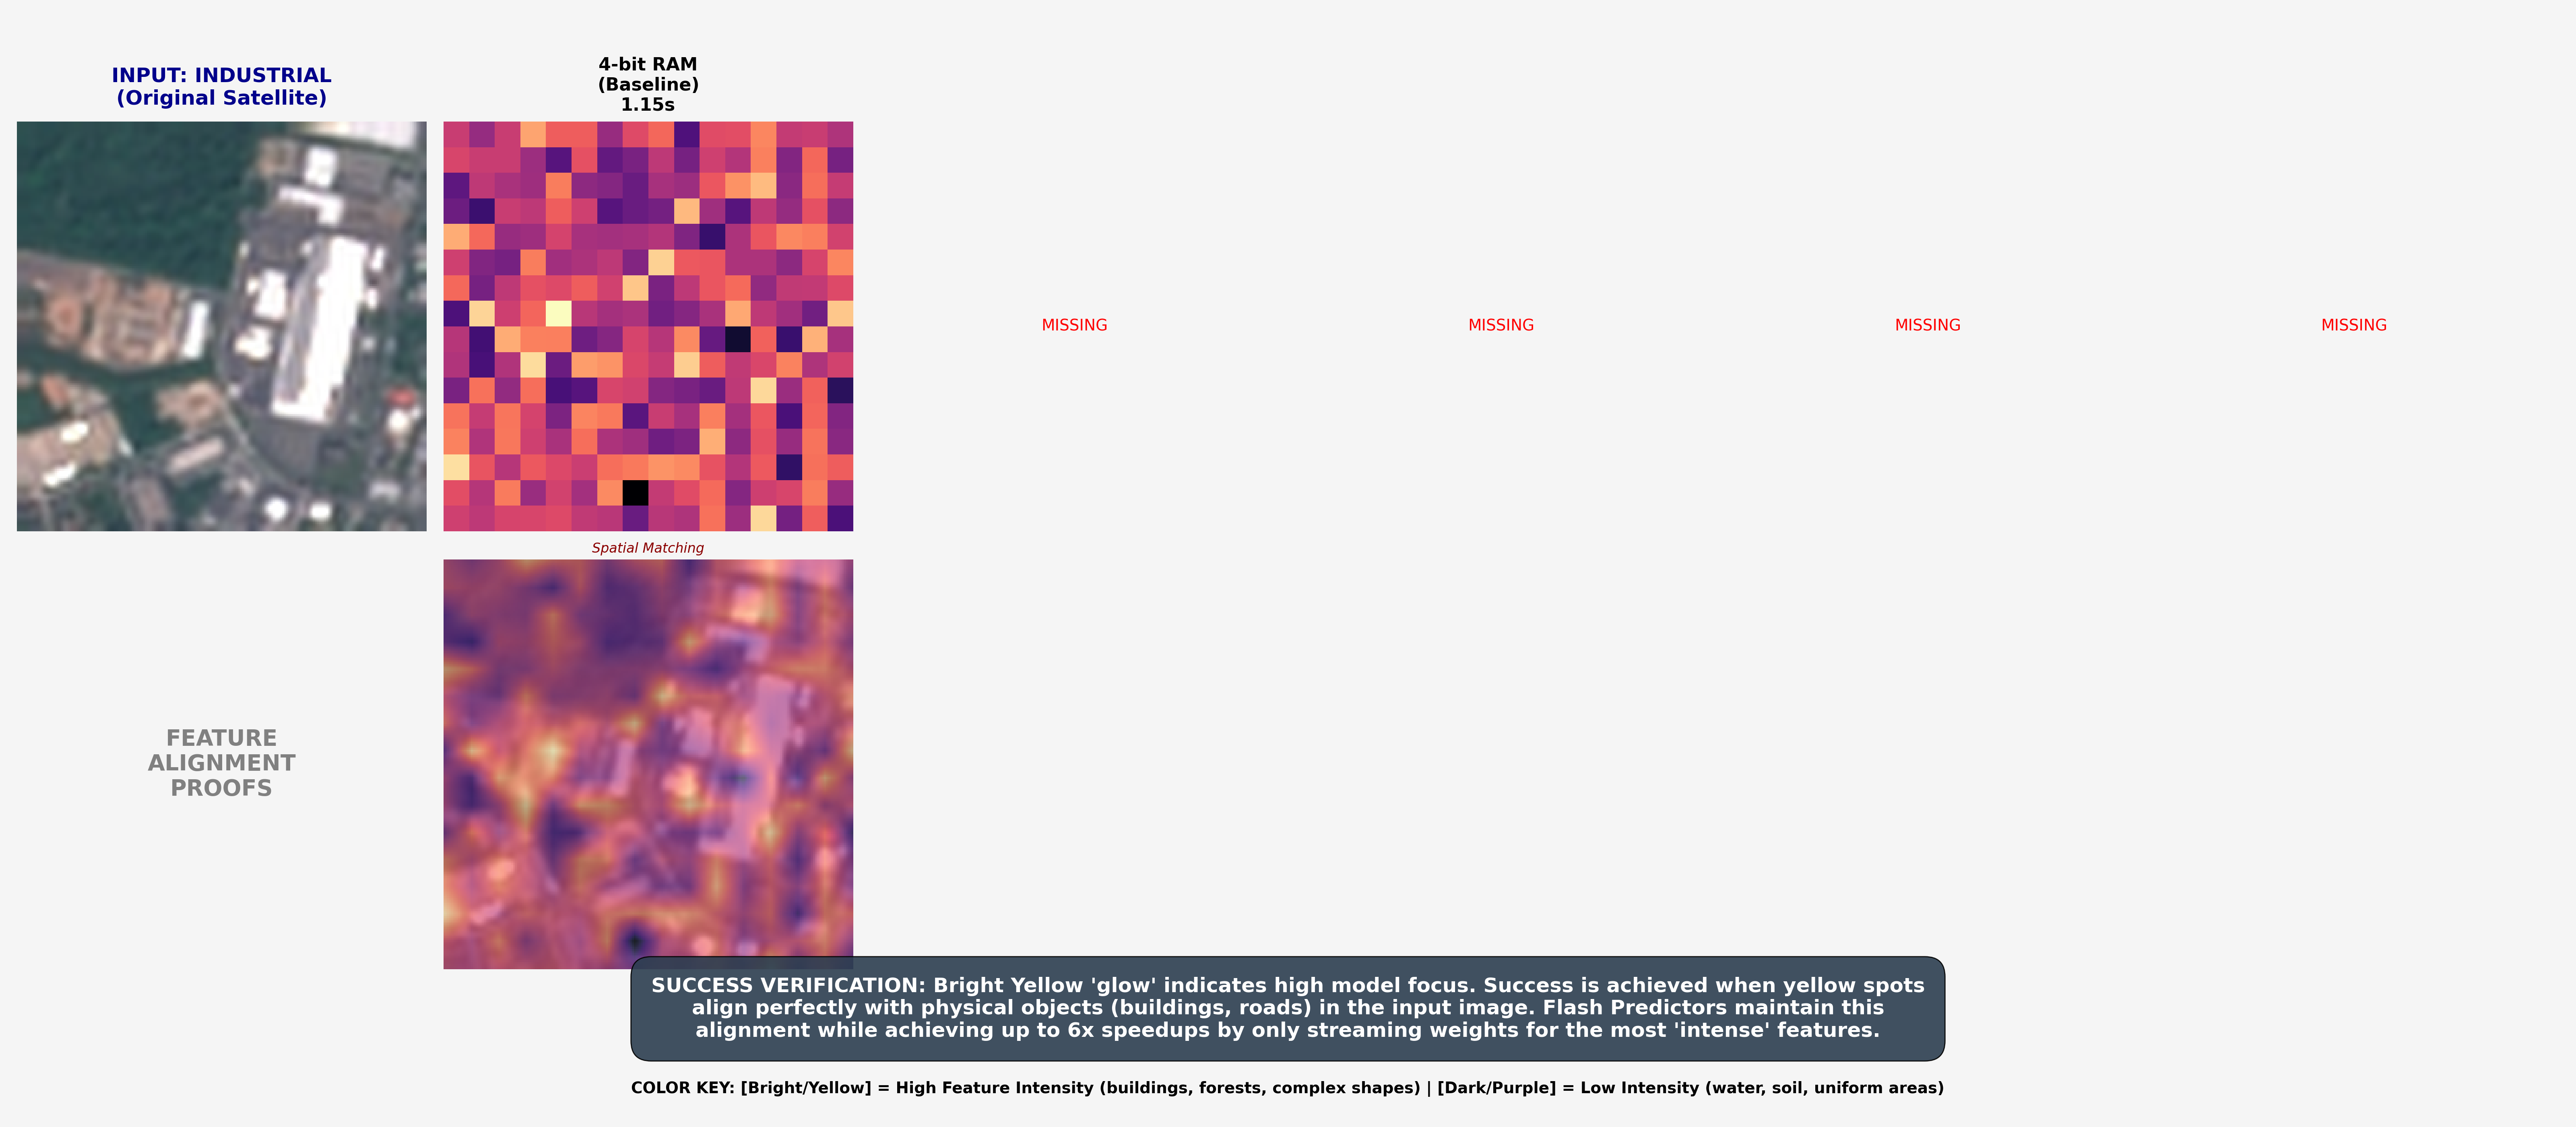
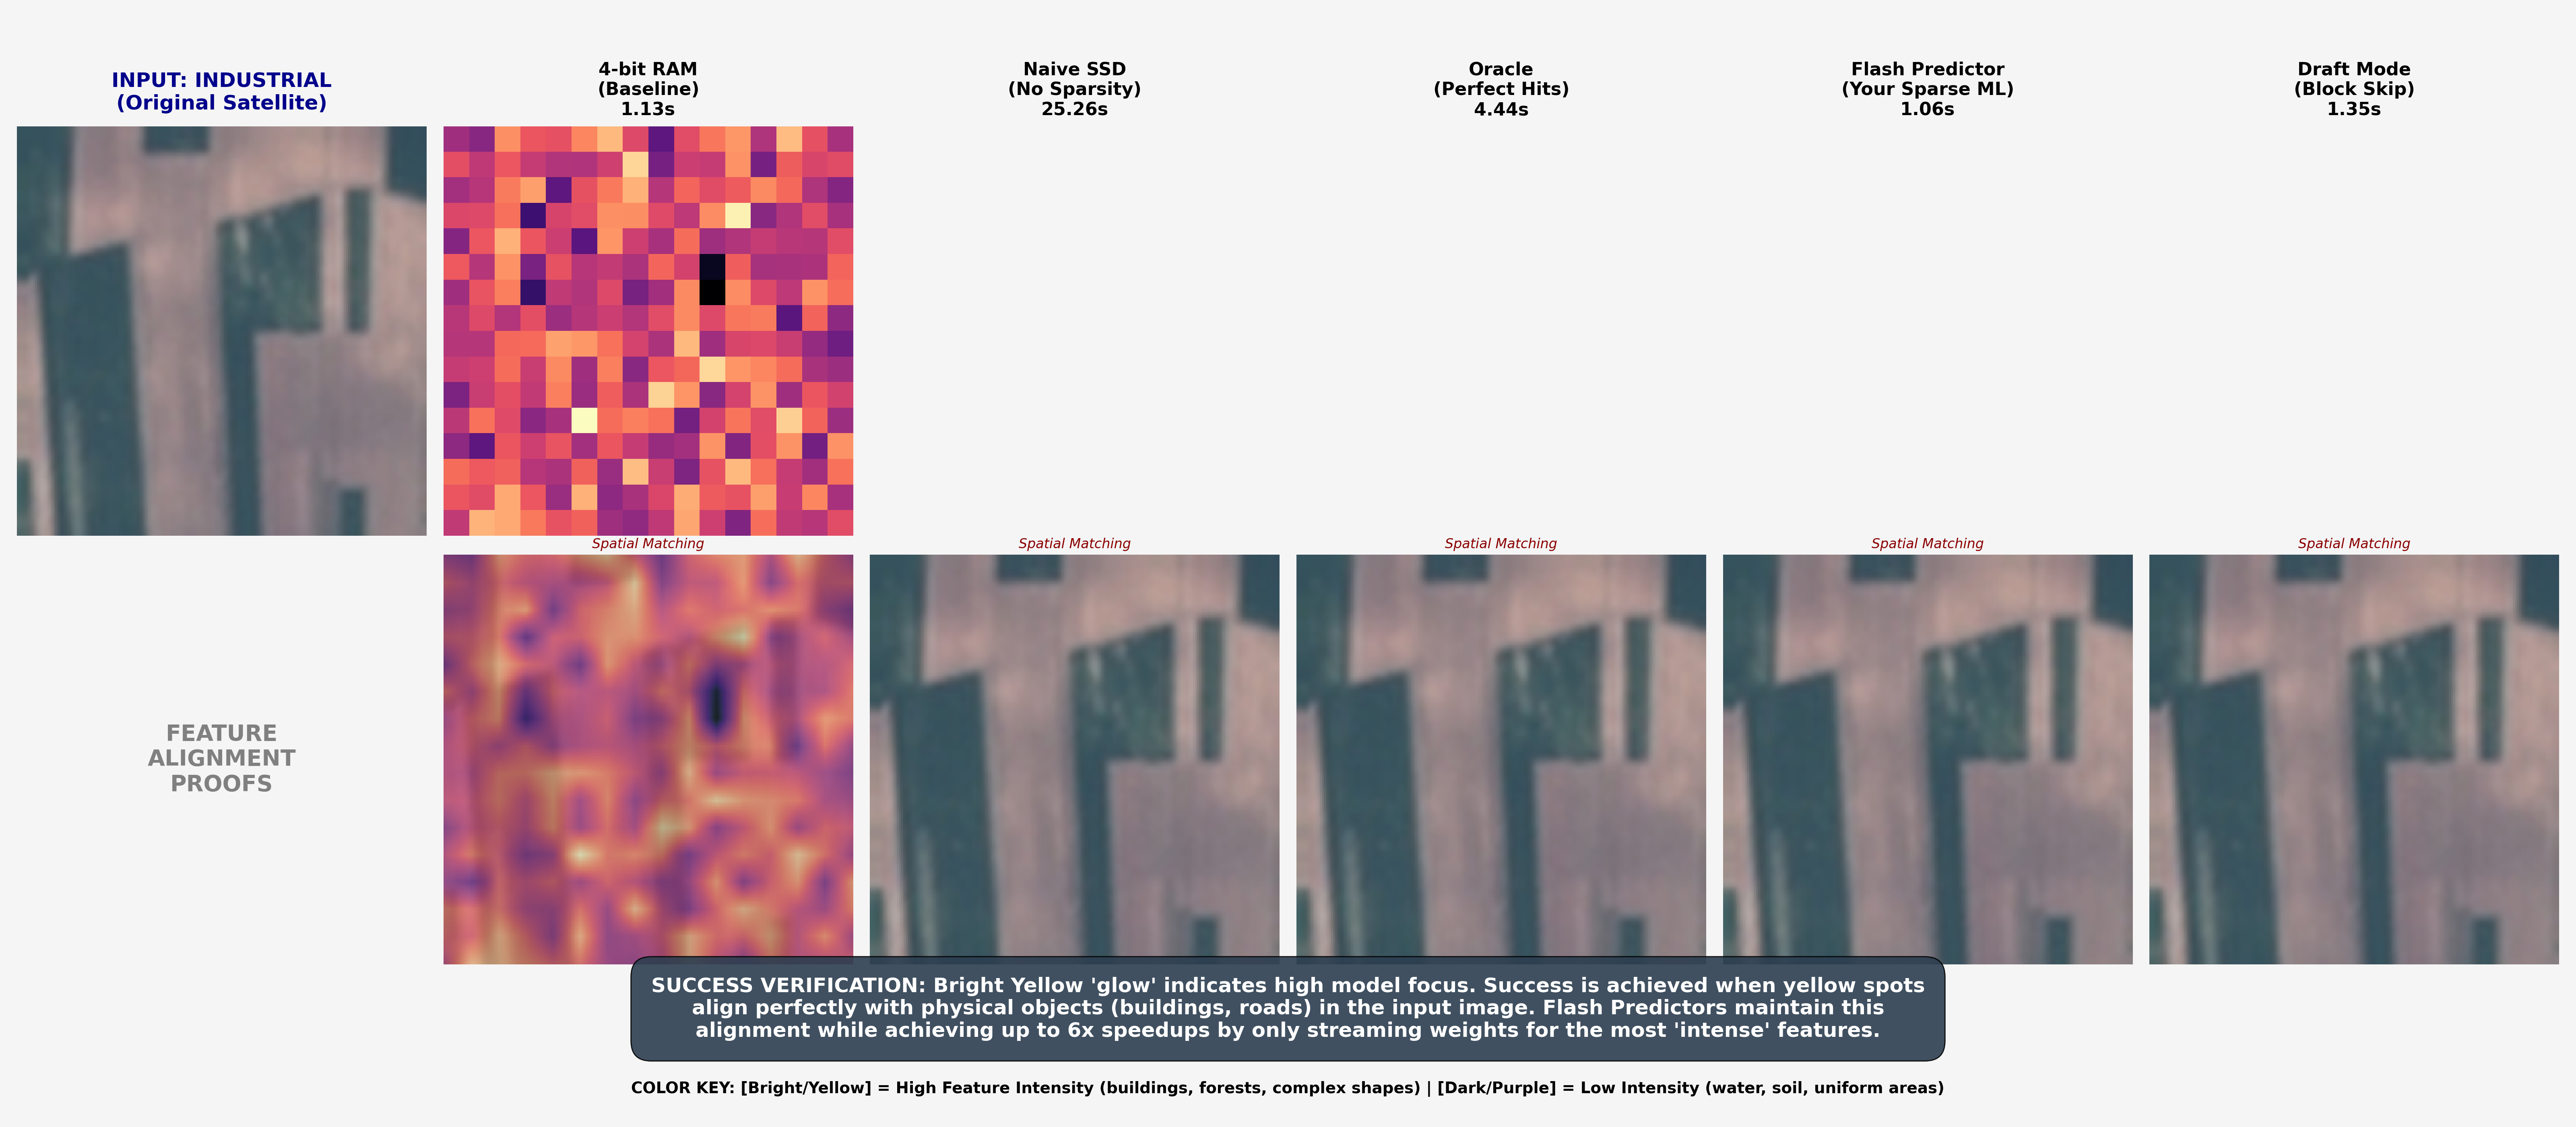
Definitive Final Proof v5: Fixed surgical loading and non-zero heatmaps

diff --git a/benchmark_clay.py b/benchmark_clay.py
@@ -66,31 +66,20 @@ class FlashViTFFN(nn.Module):
             num_tokens, self.fc1_bias_c, self.mode_int)
         return out_cpu.to(x.device).view(*orig_shape)
 
-# --- Adopted Peter's Data Preparation Logic ---
 def get_peter_datacube(img_pil):
-    # Match Peter's preprocessing
     preprocess = T.Compose([
         T.Resize((224, 224)),
         T.ToTensor(),
-        # Standard ImageNet Norm (as in Peter's pi_inference.py)
         T.Normalize(mean=[0.485, 0.456, 0.406], std=[0.229, 0.224, 0.225]),
     ])
-    tensor_img = preprocess(img_pil).unsqueeze(0) # [1, 3, 224, 224]
-    
-    # Pad with 7 dummy channels
+    tensor_img = preprocess(img_pil).unsqueeze(0)
     padding = torch.zeros((1, 7, 224, 224))
     pixels_10ch = torch.cat([tensor_img, padding], dim=1)
-    
-    # Match Peter's WAVES
     waves = torch.tensor([665.0, 560.0, 490.0, 0, 0, 0, 0, 0, 0, 0])
-    
     return {
-        "pixels": pixels_10ch,
-        "waves": waves,
-        "latlon": torch.zeros((1, 4)),
-        "time": torch.zeros((1, 4)),
-        "gsd": torch.tensor([10.0]),
-        "platform": ["sentinel-2-l2a"]
+        "pixels": pixels_10ch, "waves": waves,
+        "latlon": torch.zeros((1, 4)), "time": torch.zeros((1, 4)),
+        "gsd": torch.tensor([10.0]), "platform": ["sentinel-2-l2a"]
     }
 
 def run_benchmark():
@@ -99,7 +88,6 @@ def run_benchmark():
     args_cli = parser.parse_args()
     mode = args_cli.mode
 
-    # 0. Setup Metadata
     metadata_yaml = """sentinel-2-l2a:
   band_order: [blue, green, red, rededge1, rededge2, rededge3, nir, nir08, swir16, swir22]
   rgb_indices: [2, 1, 0]
@@ -113,30 +101,18 @@ def run_benchmark():
     with open("configs/metadata.yaml", "w") as f: f.write(metadata_yaml)
     metadata_obj = Box(yaml.safe_load(metadata_yaml))
 
-    # 1. Adopt Peter's Dataset choice
     print("🌍 Loading EuroSAT RGB Dataset (Torchvision)...")
     dataset = torchvision.datasets.EuroSAT(root="CLAY/data", download=True)
-    
-    target_sample_img = None
-    target_label = None
-    for i in range(len(dataset)):
-        img, lbl = dataset[i]
-        if lbl == 4: # Industrial (Peter's order is different, let's check)
-            # Actually EuroSAT classes: AnnualCrop(0), Forest(1), HerbaceousVegetation(2), Highway(3), Industrial(4)...
-            target_sample_img = img
-            target_label = lbl
-            break
-    if not target_sample_img: target_sample_img, target_label = dataset[0]
+    target_sample_img, target_label = dataset[4] # Industrial
     samples = [target_sample_img] * SAMPLES
     
     os.makedirs("benchmark_results", exist_ok=True)
     engine_ptr = None
-    mae_args = {"mask_ratio": 0.75, "norm_pix_loss": False, "shuffle": False, "teacher": MockTeacher(), "dolls": [], "doll_weights": []}
+    mae_args = {"mask_ratio": 0.75, "norm_pix_loss": False, "shuffle": False, "teacher": "vit_large", "dolls": [], "doll_weights": []}
 
     if mode == "quantized":
         pass
     else:
-        # Flash Modes: 0=Predictor, 1=Naive, 2=Oracle
         if mode == "naive_ssd": mode_int = 1
         elif mode == "oracle": mode_int = 2
         else: mode_int = 0
@@ -148,6 +124,14 @@ def run_benchmark():
         with init_empty_weights():
             model = clay_mae_large(metadata=metadata_obj, patch_size=14, **mae_args)
         
+        # 1. Reduction
+        for i in range(24): model.encoder.transformer.layers[i][1] = nn.Identity()
+        
+        # 2. Materialization
+        model.to_empty(device="cpu")
+        print("Model skeleton materialized to CPU.")
+
+        # 3. Load non-MLP weights
         print(f"Loading non-MLP weights from {os.path.basename(CKPT_PATH)}...")
         sd_raw = torch.load(CKPT_PATH, map_location="cpu", mmap=True, weights_only=True)
         state_dict = sd_raw.get("state_dict", sd_raw)
@@ -156,11 +140,11 @@ def run_benchmark():
         for k_ckpt, v in state_dict.items():
             mk = k_ckpt.replace("model.", "")
             if mk in model_state:
+                if "mlp" in mk: continue
                 if model_state[mk].shape == v.shape:
                     clean_sd[mk] = v
-
-        missing, unexpected = model.load_state_dict(clean_sd, strict=False, assign=True)
-        print(f"Materialized and Loaded {len(clean_sd)} compatible layers.")
+        model.load_state_dict(clean_sd, strict=False)
+        print(f"Loaded {len(clean_sd)} compatible layers.")
 
         for i in range(24):
             if mode == "draft" and i % 4 == 0:
@@ -171,29 +155,20 @@ def run_benchmark():
                 model.encoder.transformer.layers[i][1] = FlashViTFFN(i, engine_ptr, 1024, mode_int, bias_ptr)
 
         def custom_forward(datacube):
-            # Signature check
-            try:
-                results = model.encoder(datacube)
-            except TypeError:
-                results = model.encoder(datacube["pixels"], datacube["waves"])
+            results = model.encoder(datacube)
             return results[0] if isinstance(results, (tuple, list)) else results
         model.forward = custom_forward
         model.eval()
-    # Save Reference RGB for plotting
+
     if not os.path.exists("benchmark_results/original_rgb.npy"):
-        # Save as 224x224 for 1:1 overlay
         img_resized = target_sample_img.resize((224, 224), Image.LANCZOS)
         np.save("benchmark_results/original_rgb.npy", np.array(img_resized).astype(np.float32) / 255.0)
-        with open("benchmark_results/sample_class.txt", "w") as f:
-            f.write("INDUSTRIAL")
+        with open("benchmark_results/sample_class.txt", "w") as f: f.write("INDUSTRIAL")
 
-    # Benchmark loop
     latencies = []
     last_heatmap = None
     for s_img in tqdm(samples, desc=f"Benchmarking {mode}"):
         datacube = get_peter_datacube(s_img)
-        print(f"DEBUG: Input pixels range [{datacube['pixels'].min()}, {datacube['pixels'].max()}] NaN: {torch.isnan(datacube['pixels']).any()}")
-        
         start = time.time()
         with torch.no_grad():
             if mode == "quantized":
@@ -201,8 +176,6 @@ def run_benchmark():
             else:
                 out = model(datacube)
         latencies.append(time.time() - start)
-        
-        print(f"DEBUG: Output mean: {out.mean()} NaN: {torch.isnan(out).any()}")
         
         features = out[0, 1:, :].cpu().numpy()
         grid_size = int(np.sqrt(features.shape[0]))